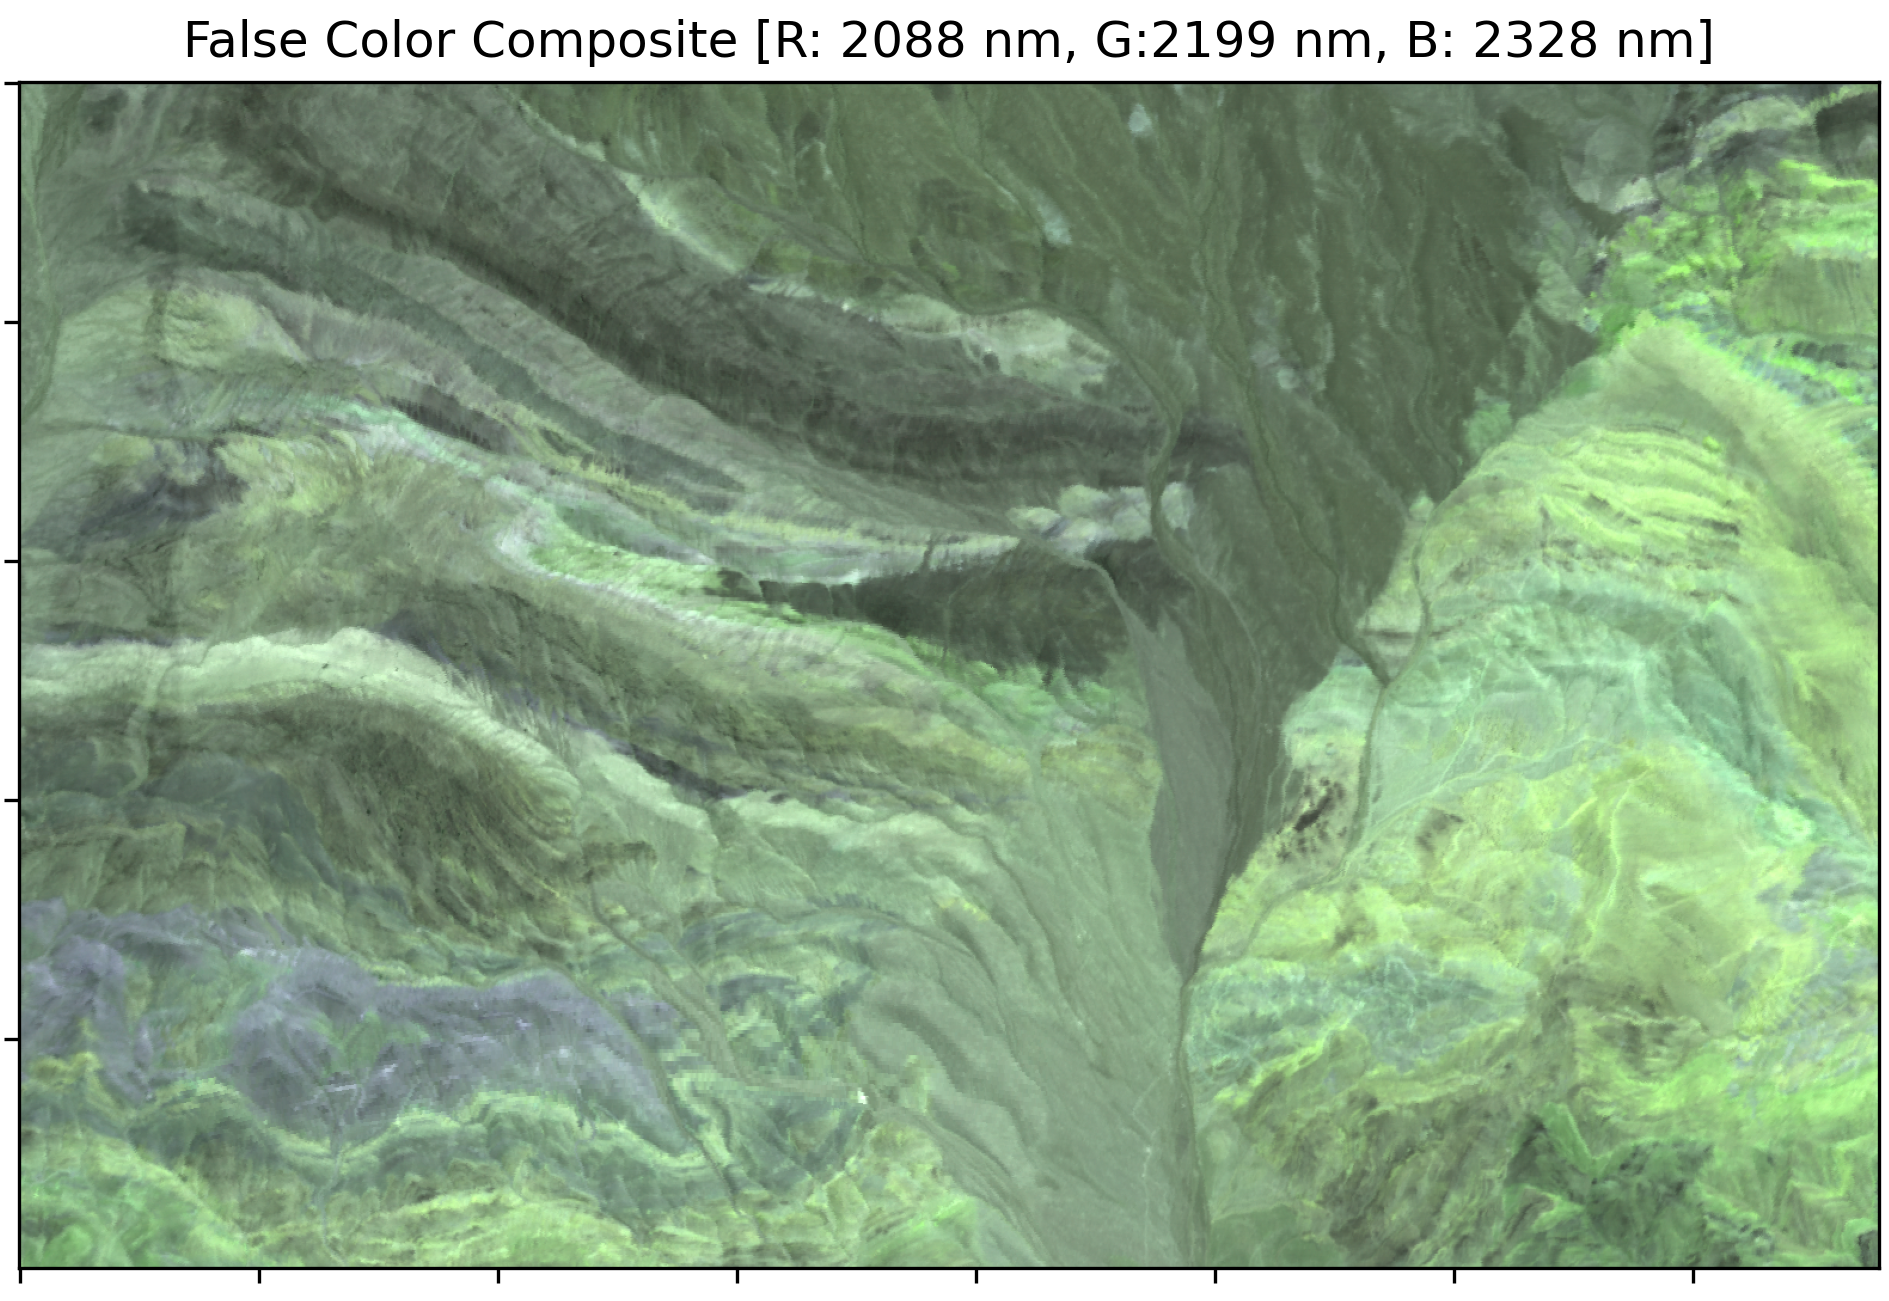
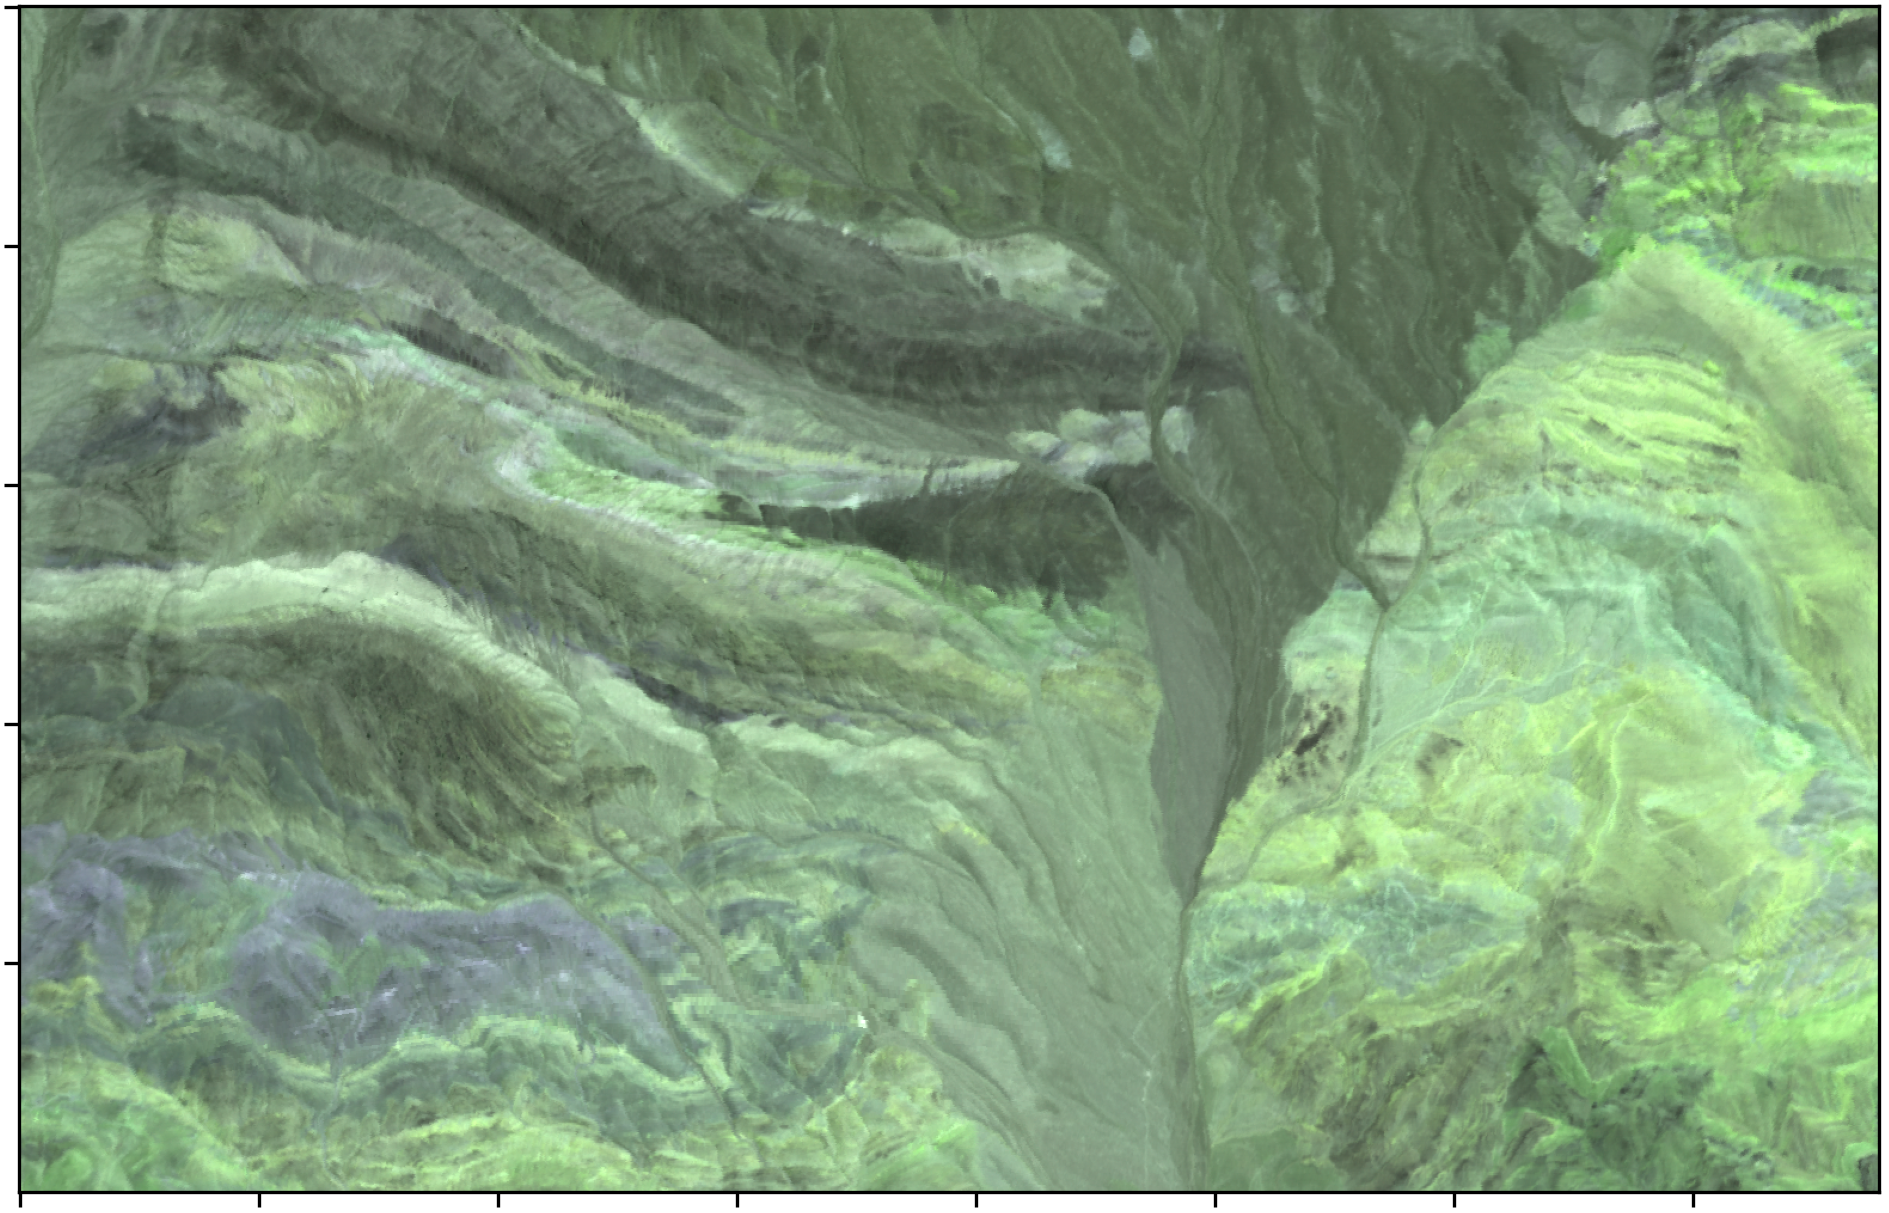
edit typos

diff --git a/_posts/2024-12-09-EDA.md b/_posts/2024-12-09-EDA.md
@@ -22,7 +22,7 @@ The obvious first step in EDA of hyperspectral imagery is to visualize the image
     </div>
 </div>
 <div class="caption">
-    Image 1. False color composite image 
+    Image 1. False color composite image (R: 2088 nm; G: 2199 nm; B: 2328 nm)
 </div>
 
 My initial interpretation of the region is that it is most likely mainly composed of sedimentary bedding influenced by a fault with apparent left-lateral movement, based on the drag fold formed along the fault lines.
